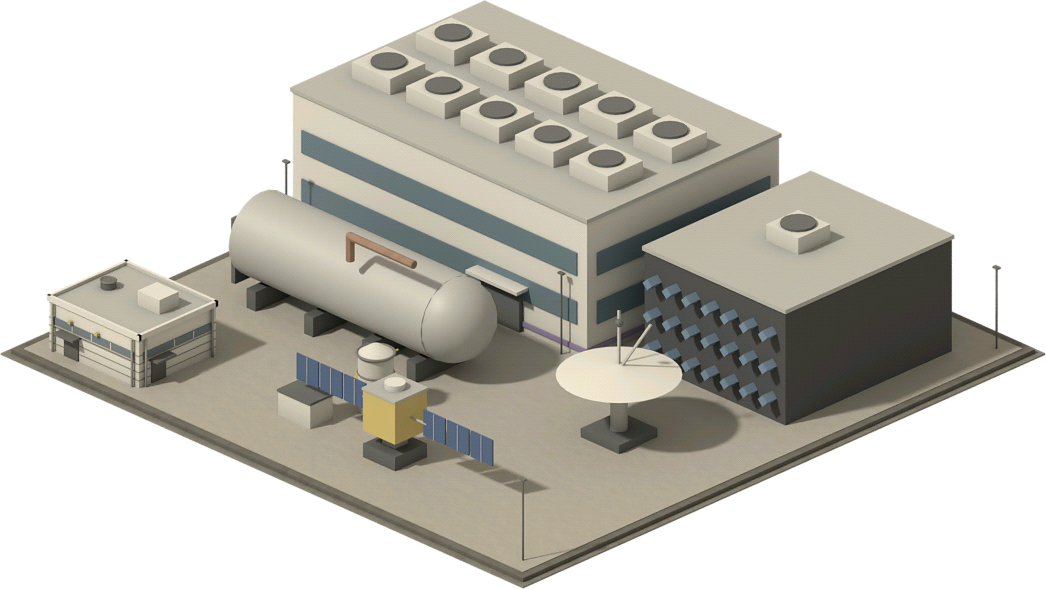
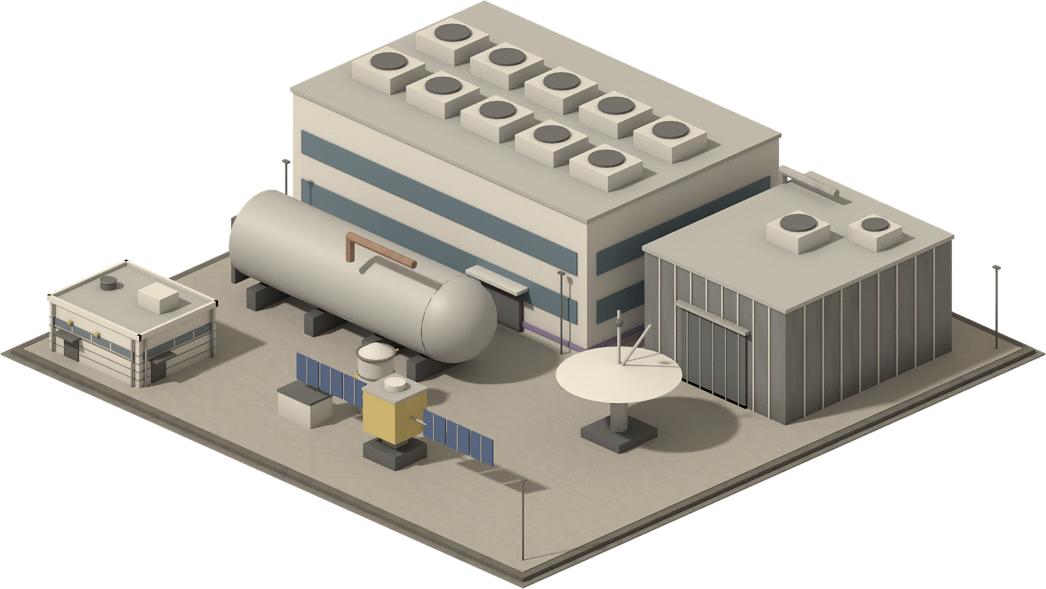
絵の修正：モーター工場を無彩色に、発電設備を段付きの高い棟＋風車に、通信機器の小物、通信衛星の無響室の外壁
Claude-Session: https://claude.ai/code/session_018rzwRr8JkDqqPcQLfX2TTK

Changed region(s): [[0.6119, 0.3362, 0.9178, 0.7334], [0.7342, 0.275, 0.7954, 0.3362]]

diff --git a/data/sprites_bl.js b/data/sprites_bl.js
@@ -3290,18 +3290,18 @@ window.GAME_DATA.spritesBL = {
    {
     "file": "../assets/bl/powerEquipFactory_r0.png",
     "w": 555.0,
-    "h": 313.0,
+    "h": 337.5,
     "ax": 277.5,
-    "ay": 186.1,
+    "ay": 210.6,
     "fw": 9,
     "fd": 8
    },
    {
     "file": "../assets/bl/powerEquipFactory_r1.png",
     "w": 555.0,
-    "h": 301.5,
+    "h": 291.5,
     "ax": 277.5,
-    "ay": 174.6,
+    "ay": 164.6,
     "fw": 8,
     "fd": 9
    },
@@ -3317,9 +3317,9 @@ window.GAME_DATA.spritesBL = {
    {
     "file": "../assets/bl/powerEquipFactory_r3.png",
     "w": 555.0,
-    "h": 302.5,
+    "h": 402.0,
     "ax": 277.5,
-    "ay": 175.6,
+    "ay": 275.1,
     "fw": 8,
     "fd": 9
    }
